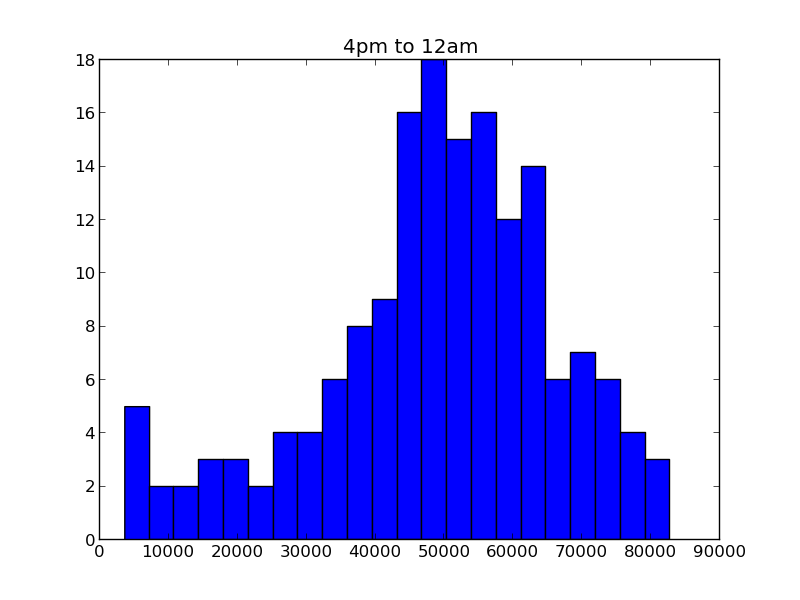
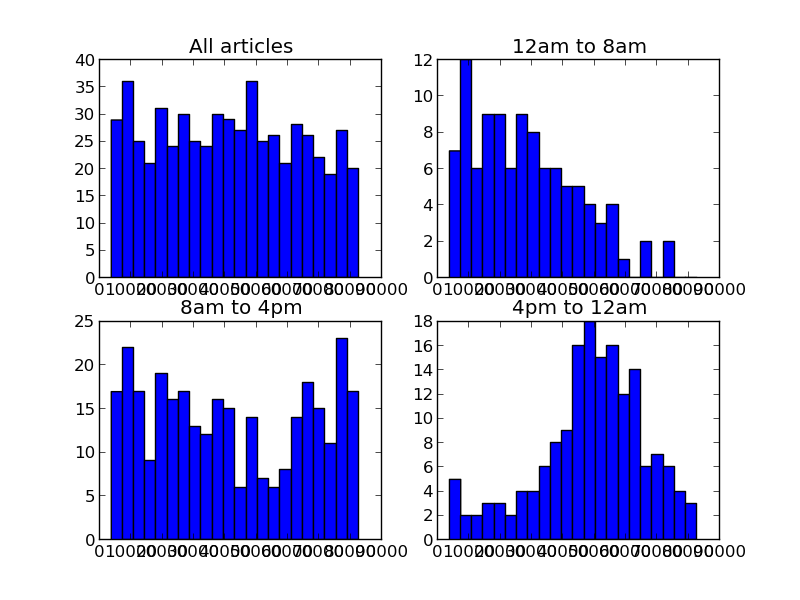
blah

diff --git a/src/analysis/pathAnalysis.py b/src/analysis/pathAnalysis.py
@@ -100,20 +100,27 @@ def frontPageTimes(subreddit):
         
    bins = [ i*3600 for i in range(1,24)]
    print bins
-   print len(timeLengths)    
+   print len(timeLengths)
+   
+   fig = plt.figure()
+   
+   fig.add_subplot(2,2,1)    
    plt.hist(timeLengths, bins=bins)
    plt.title("All articles")
    
-   plt.figure(2)
+   #plt.figure(2)
+   fig.add_subplot(2,2,2)
    plt.hist(timeByHour[0], bins=bins)
    plt.title("12am to 8am")
    
-   plt.figure(3)
+   #plt.figure(3)
+   fig.add_subplot(2,2,3)
    plt.hist(timeByHour[1], bins=bins)
    plt.title("8am to 4pm")
    
    
-   plt.figure(4)
+   #plt.figure(4)
+   fig.add_subplot(2,2,4)
    plt.hist(timeByHour[2], bins=bins)
    plt.title("4pm to 12am")
    
